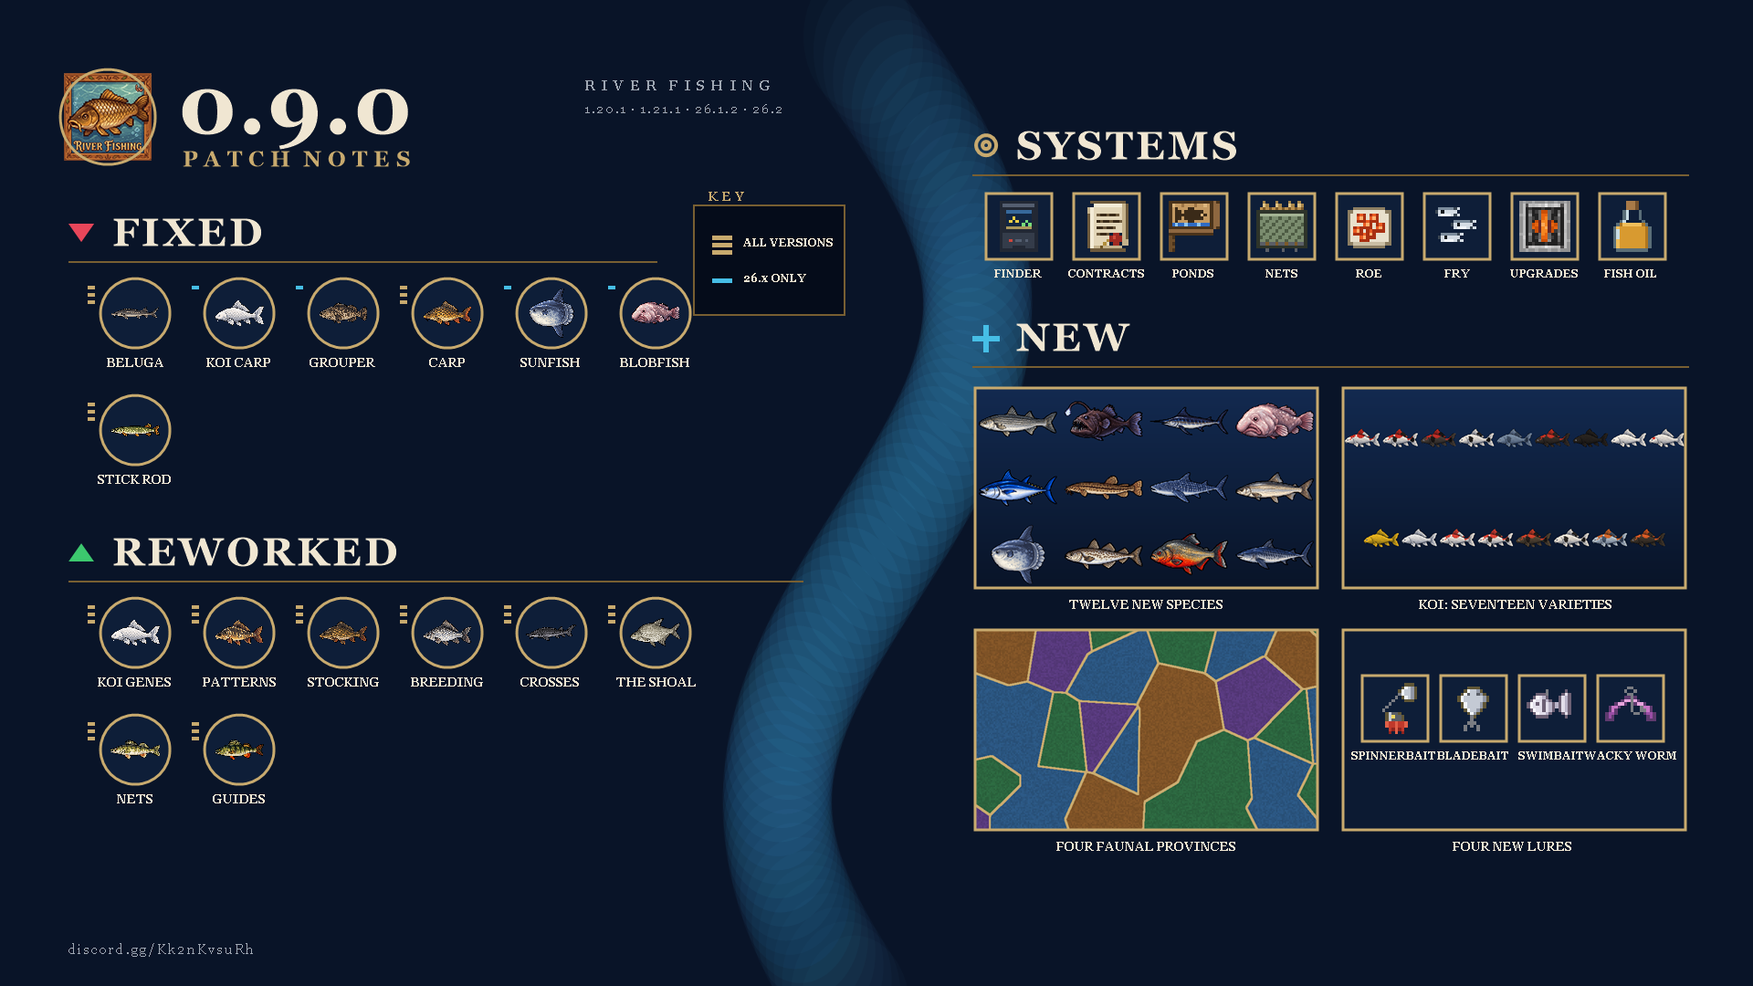
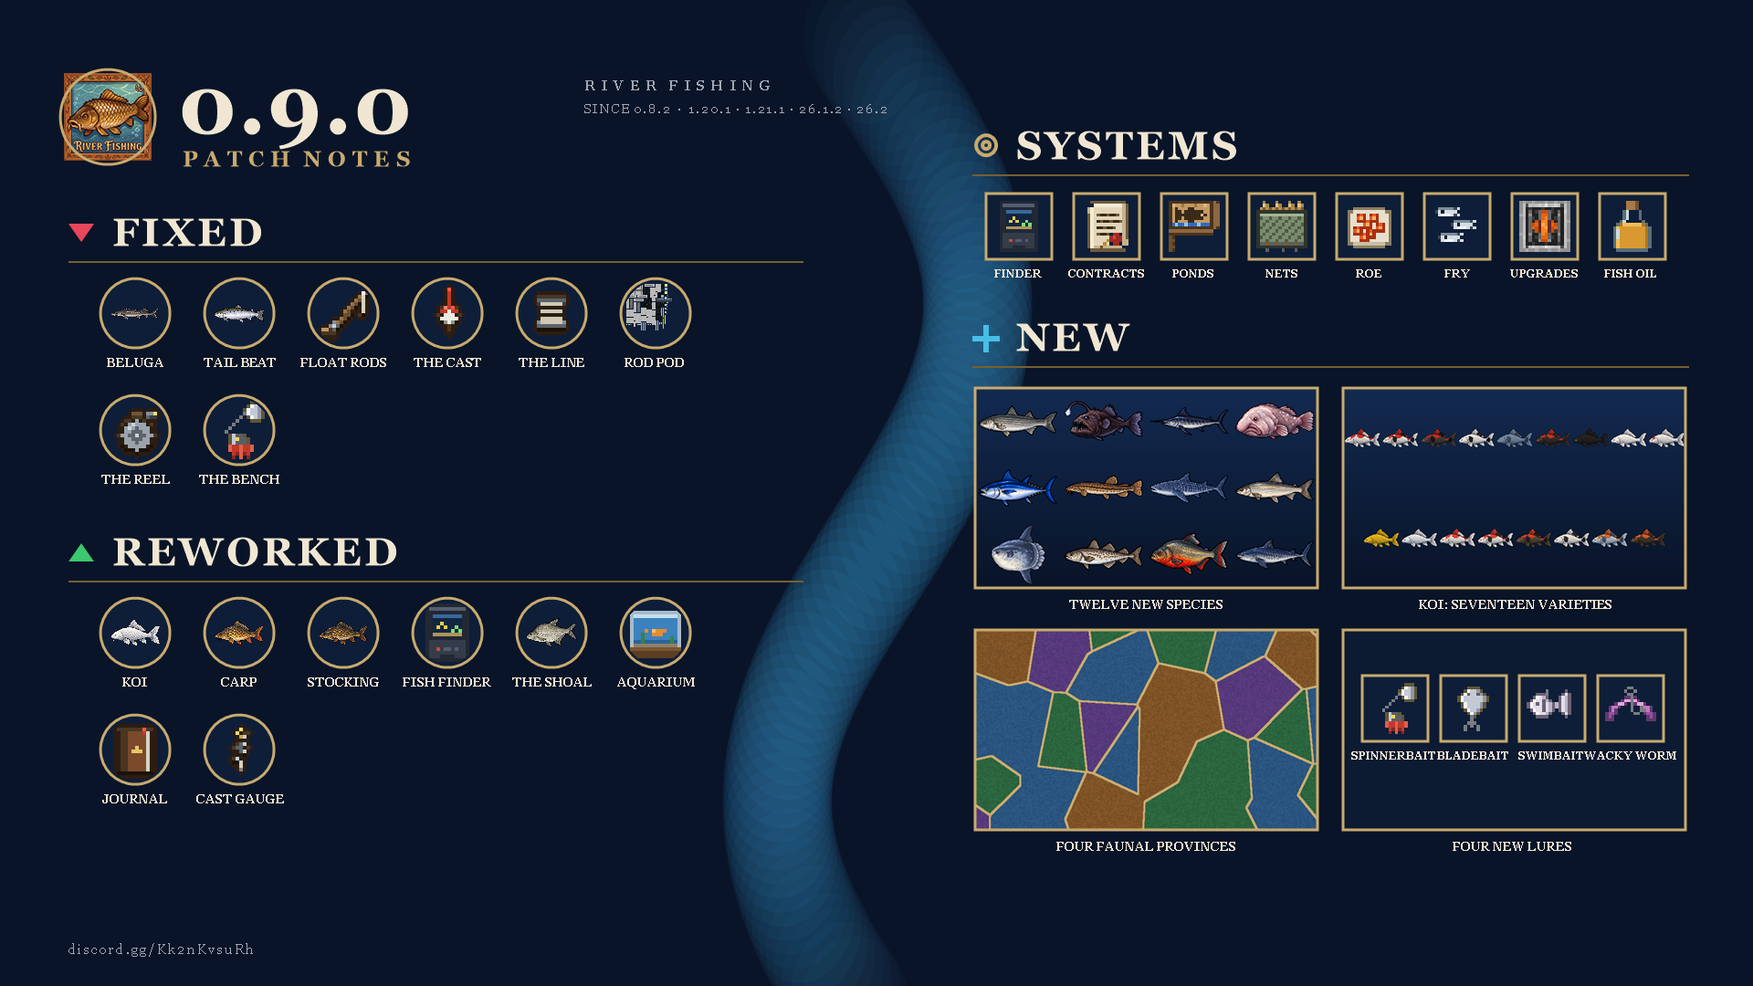
docs(0.9.0): the notes are measured against 0.8.2 — bugs born and fixed inside the cycle are left out, and the card follows
Eight fixes survive: the beluga, the tail beat, the float-rod crash, the cave lake, the line tip, the rod pod, the crank, the bench dye. The koi, fry, mask, flat-pose, aquarium-flicker and ledger fixes were all against 0.9.0's own features and are gone from the list; the before ⇒ after arrows that compared two in-cycle states are flattened.

diff --git a/docs/patchnotes/0.9.0.md b/docs/patchnotes/0.9.0.md
@@ -2,7 +2,7 @@
 
 **Minecraft 1.20.1** (Fabric & Forge) · **1.21.1** (Fabric & NeoForge) · **26.1.2** (Fabric & NeoForge) · **26.2** (Fabric & NeoForge)
 
-Hey anglers. This is the breeding patch — the one where a pond stops being a place you fish and becomes a place you *keep*. Every fish now carries a card with its genes on it, a tank breeds them the way Mendel said, koi come in seventeen varieties you build rather than find, and the world finally has geography: four faunal provinces cut by the seed, so a taimen and a peacock bass no longer share a river because the temperature happened to match. Underneath that: contracts from the fisherman's board, a fish finder that is an instrument, twelve new species, four lures, and the longest bugfix list this mod has shipped — including the beluga, which can be landed again.
+Everything below is measured against **0.8.2**, the last release. Hey anglers. This is the breeding patch — the one where a pond stops being a place you fish and becomes a place you *keep*. Every fish now carries a card with its genes on it, a tank breeds them the way Mendel said, koi come in seventeen varieties you build rather than find, and the world finally has geography: four faunal provinces cut by the seed, so a taimen and a peacock bass no longer share a river because the temperature happened to match. Underneath that: contracts from the fisherman's board, a fish finder that is an instrument, twelve new species, four lures — and the beluga, which can be landed again.
 
 It is a big one. Skim the highlights, then read the section you fish in.
 
@@ -11,7 +11,7 @@ It is a big one. Skim the highlights, then read the section you fish in.
 ## Patch Highlights
 
 - **Every fish carries its card** — genes, nature, where and how it was caught. Contracts read it. The tank breeds from it.
-- **Breeding** — roe, fry, a live aquarium, spawning windows for all 107 species, Mendelian inheritance.
+- **Breeding** — roe, fry, a live aquarium, spawning windows for all 105 species, Mendelian inheritance.
 - **Koi are bred, not found** — one fish, five colour loci, seventeen varieties; kohaku breeds true, tancho comes out of a tancho line.
 - **The pattern index** — every carp and koi wears a marking family, and twelve of a thousand are gems.
 - **Geography** — four faunal provinces per world; a species is *absent* outside its own, not rarer.
@@ -27,7 +27,7 @@ It is a big one. Skim the highlights, then read the section you fish in.
 
 *The top and the bottom of the ladder both needed company: the beluga stood alone at level 12, and the small end had nothing that lives in a loach's kind of water.*
 
-- **Added:** mullet, anglerfish, black marlin, blobfish, bluefin tuna, loach, whale shark, nelma, ocean sunfish, pollock, red piranha, tiger shark — each with its own art, water and way of being caught.
+- **Added:** mullet, anglerfish, black marlin, blobfish, bluefin tuna, loach, whale shark, nelma, ocean sunfish, pollock, red piranha, tiger shark — each with its own art, water and way of being caught. **93 ⇒ 105 species.**
 - **Level 12:** beluga ⇒ beluga and whale shark.
 - **Artwork on disk:** 7.8 MB ⇒ 4.0 MB (the 93 existing sprites compressed, nothing redrawn).
 
@@ -37,14 +37,13 @@ It is a big one. Skim the highlights, then read the section you fish in.
 
 - **Loci:** W white ground, R red, B black, G lustre, **T crown** — a pair of alleles each, dominant written first.
 - **Varieties:** 5 ⇒ 17. Nine come out of the water; eight — tancho, yamabuki, platinum ogon, sakura ogon, yamatonishiki, kin showa, kin hi utsuri, shiro muji — are bred and nothing else.
-- **Tancho:** *a kohaku pure at white and red* ⇒ **the recessive `tt` on a kohaku.** A kohaku line carries `TT` and cannot throw one; a tancho line breeds it true; tancho × kohaku hides it for a generation and the F2 shows one in four.
-- **Kohaku × kohaku:** *50% kohaku, 19% platinum, 19% hi utsuri, 6% tancho* ⇒ **kohaku, the odd shiro muji where a carrier drops the red, never a dark fish, never a metallic one.**
+- **Tancho** is the recessive `tt` on a kohaku. A kohaku line carries `TT` and cannot throw one; a tancho line breeds it true; tancho × kohaku hides it for a generation and the F2 shows one in four.
+- **Kohaku × kohaku** gives kohaku — the odd shiro muji where a carrier drops the red, never a dark fish, never a metallic one.
 - **A wild koi** is pure at its ground and its lustre and a mongrel at the red and the black — the card shows the carriers (`Rr`, `Bb`), which is where a sanke line drops a bekko.
-- **Names:** the matt white koi *Platinum* ⇒ **Shiro Muji**; the metallic white *Ogon* ⇒ **Platinum Ogon** (names only — every id on every card stays what it was).
 - **Yamabuki**, the gold koi, is a karasu with the lustre on. The lustre reaches a pond only on a wild kujaku or gin bekko — one koi in thirteen.
 - **Prices:** tancho ×4 a plain fish, yamabuki ×3.5, by variety at every counter.
 - **One drawing paints all seventeen:** four tint layers cut from one sprite, plus an eye layer that takes no colour, so a white koi keeps its eye.
-- **Old worlds:** a card written with four koi pairs reads its crown from the old rule — a bred tancho is still a tancho.
+- **Old worlds:** the five koi items you already have keep their items, prices and journal pages; a caught koi is drawn as its variety from the first tick it is carried.
 
 | Variety | Genotype | Where from |
 |---|---|---|
@@ -68,25 +67,25 @@ It is a big one. Skim the highlights, then read the section you fish in.
 
 ### Carp wear their genotype
 
-*Scale cover in carp is a real two-locus system, and it is one here.*
+*Scale cover in carp is a real two-locus system, and it is one here. Three carp items ⇒ one carp with a genotype (the sazan keeps its own id: its own price, its own fight).*
 
 - **Loci:** K scaled / k mirror, N nude (lethal doubled) / n normal.
 - **Varieties:** scaled `K_ nn`, mirror `kk nn`, linear `K_ Nn`, leather `kk Nn`. Mirror breeds true; leather never can — `NN` is a dead egg, so a leather pair loses a quarter of its clutch, which is exactly why a leather carp is worth more.
-- **Drawing:** a carp is drawn as the variety its genotype gave it. Nothing you already caught changes item, price or journal page.
+- **Drawing:** a carp is drawn as the variety its genotype gave it; the linear carp has its own sprite. Nothing you already caught changes item, price or journal page.
 
 ### The pattern index
 
-*Two kohaku of the same weight should not be the same fish. The index is one number, 0–999, on every carp and koi — and, as of this patch, it actually draws something.*
+*Two kohaku of the same weight should not be the same fish. The index is one number, 0–999, on every carp and koi, and it draws.*
 
 - **Families:** twelve, of uneven width — plain, drift, crown, banded, speckled, mask, marbled, veined, dappled, ghost, ember, aurora.
-- **On the fish:** *a hue turn of 3–18°* ⇒ **a marking in the family's shape** — banded is banded, mask is a dark head — cut to each sprite, carrying the fish's own scales and shading underneath, moved a notch by the index so neighbours are cousins rather than twins.
+- **On the fish:** a marking in the family's shape — banded is banded, mask is a dark head — cut to each sprite, carrying the fish's own scales and shading underneath, moved a notch by the index so neighbours are cousins rather than twins. The koi's mask, bands and aurora are hand-drawn; the carps wear the same drawing re-projected onto their own bodies.
 - **Gems:** twelve exact indices — sapphire, gold, emerald, jet, amethyst, pearl, ruby, copper, jade, amber, opal, obsidian. The whole fish one saturated colour; the counter pays ×6. One landed fish in 83 is a gem; a named one is one in a thousand.
 - **Heritable and never exact:** a bred fish takes the mean of its parents plus a drift; a line breeds toward a family.
 - **Data tag** `riverfishing:patterned` — a pack that wants another species collecting patterns adds it there.
 
 ### A sazan and a carp can spawn together
 
-*The tank paired by item id, which put a wall through the middle of one species. A profile now names the ids it will spawn with, and every cross carries a strength you read off the egg count.*
+*A profile names the ids it will spawn with, and every cross carries a strength you read off the egg count.*
 
 - **Pools:** carp + sazan + koi (1.0); the two crucians (1.0); beluga + sterlet + sturgeon (0.8 — bester has been farmed on that fact since the fifties); salmon + trout + char (0.5); zander + volga zander (0.35); whitefish + nelma (0.3); the four breams (0.2, and 0.9 for bream × white bream); roach + rudd (0.35).
 - **Fry** take the mother's species and a genome crossed from both parents — breeding a carp out of a wild sazan is a thing you can do.
@@ -105,7 +104,7 @@ It is a big one. Skim the highlights, then read the section you fish in.
 *Minecraft has weather, not geography: the same swamp repeats to the world border, so a fish gated on biomes lived everywhere its climate occurred. The world is now cut into four faunal provinces by the seed.*
 
 - **Provinces:** palearctic, nearctic, neotropic, indomalaya — organic regions about 3,000 blocks across, fixed forever.
-- **A species outside its province:** *rarer* ⇒ **absent.** No factor, no half rate.
+- **A species outside its province is absent.** No factor, no half rate.
 - **The sea is undivided**, and so are the fish people carried everywhere: 37 species name no province.
 - **Species per province:** 59 palearctic, 24 nearctic, 18 neotropic, 15 indomalaya.
 - **The sounder** names your province on the bar and the water card; the chart paints the regions once ~1,000 blocks fit across its face.
@@ -117,16 +116,16 @@ It is a big one. Skim the highlights, then read the section you fish in.
 
 - **To settle a species:** one mature ♀ and one mature ♂ (the card says which), or thirty fry — living through one whole spawning window in water that suits them at least halfway.
 - **The release message** is a checklist: sexes, fit, days to settle. Hostile water refuses outright; the wrong continent says so.
-- **Until settled** the transplant is temporarily catchable off what you banked, and disperses if the brood never completes.
-- **What comes out of a stocked water:** *a fish rolled from the wild table* ⇒ **a founder** — one of the fish you put in — until the brood has spawned, and their **cross** after it. 250 kohaku fry are 250 kohaku, not their F1 on day one.
+- **Until settled** the transplant is temporarily catchable off what you banked, counted by heads, and disperses if the brood never completes.
+- **What comes out of a stocked water:** a founder — one of the fish you put in — until the brood has spawned, and their **cross** after it. 250 kohaku fry are 250 kohaku.
 - **Fry are not fish until they are:** a water holding only fry gives a net nothing for twelve days; the fish they become are counted the day they mature.
-- **An unsettled brood is counted by its book:** heads, not a weight bank that eleven catches emptied while the sounder still listed a hundred. The last fish out empties both.
+- **The release reads the same water the finder priced** — the best column within three blocks, not the one your feet are in — so "it will thrive here" and "it will not survive here" stop being two answers about one pond.
 
 ### Private ponds
 
 - **A sign** within three blocks of water claims that body, up to 600 blocks — a dug pit, a village pond, never a river.
 - **In a claimed pond:** no wild fish move in; depth, width, biome and province gates step back (a carp lives in a dug pit); your own net is legal; the wait between hauls is a third.
-- **The sign** is a board on a post now, faces whoever plants it, and its hitbox is the sign.
+- **The sign** is a board on a post, faces whoever plants it, and its hitbox is the sign.
 
 ### The pond is a farm
 
@@ -138,7 +137,7 @@ It is a big one. Skim the highlights, then read the section you fish in.
 
 ### Water upgrades
 
-*Five blocks for a pond of your own, counted within 24 blocks of the water — and drawn like vanilla now.*
+*Five blocks for a pond of your own, counted within 24 blocks of the water.*
 
 | Block | What it does | Recipe core |
 |---|---|---|
@@ -155,8 +154,7 @@ It is a big one. Skim the highlights, then read the section you fish in.
 - **Seine:** 1–3 fish a minute, 64 hauls. **Cast net:** at most one every 15 s, 32 hauls.
 - **A netted fish carries a card** that says NETTED — and POACHED when the water was not yours. It never loses that.
 - **Poaching:** every fisherman within earshot saw it: **reputation −5 per haul**, and the water empties **twice** as fast.
-- **The record:** *three hauls and no contracts until one release per offence* ⇒ **reputation is a signed number.** Under zero the trusted shelf shuts; at **−15** the board is blank. Restitution is **5 kg of mature fish per point**, released into *wild* water.
-- **A poached fish put back buys no pardon** — the haul that cost five points cannot pay them back.
+- **Reputation is a signed number.** Under zero the trusted shelf shuts; at **−15** the board is blank. Restitution is **5 kg of mature fish per point**, released into *wild* water — and a poached fish put back buys no pardon.
 - **A net pays the ledger like a rod:** a settled water from its head count, an unsettled brood from its book.
 
 ### The electrofisher
@@ -182,8 +180,6 @@ It is a big one. Skim the highlights, then read the section you fish in.
 
 ### The tank shows its water and its modules
 
-*A tank with an aerator in it looked exactly like a tank without one, and the water was one blue texture at 100% and at 0%.*
-
 - **Water colour** reads the tank: clear blue at 100 ⇒ green murk at 50 (the line under which nothing spawns) ⇒ brown at 0, and less see-through as it fouls.
 - **Modules** are drawn as their blocks in the back corners of the gravel — left slot left, right slot right.
 - **Six fish swim as six fish**, in three depth lanes, big enough to see; a flatfish works the floor.
@@ -204,13 +200,13 @@ It is a big one. Skim the highlights, then read the section you fish in.
 ### Fish meal, fish oil, and a potion
 
 - **Fish meal:** three small fish (or a bucket of fry) grind into bone meal for the fields and protein for the groundbait.
-- **Oily fish:** herring, mackerel, salmon, pink salmon, sabrefish, eel, bluefish, bluefin tuna, pollock render down in a furnace or on a campfire — and now in a **brewing stand**: an awkward potion under any oily fish is a **Potion of Fish Oil** on every loader; an empty bottle under one is the oil item on NeoForge and Forge (Fabric's API type-checks both ends as potions, so there the bottle stays a furnace job).
+- **Oily fish:** herring, mackerel, salmon, pink salmon, sabrefish, eel, bluefish, bluefin tuna, pollock render down in a furnace or on a campfire — and in a **brewing stand**: an awkward potion under any oily fish is a **Potion of Fish Oil** on every loader; an empty bottle under one is the oil item on NeoForge and Forge (Fabric's API type-checks both ends as potions, so there the bottle stays a furnace job).
 - **Potion of Fish Oil:** dolphin's grace + water breathing 1:30, regeneration 0:45, resistance 1:30, and it clears mining fatigue outright. Glowstone: second level, shorter. Redstone: 4:00. Gunpowder: throwable.
 
 ### The gauges
 
 - **The cast gauge reads in metres** — the same function the server throws with — on an oak-and-brass sheet, the unreachable band of an under-loaded rig hatched red.
-- **The hookset gauge** is read on the same frame now: *four flat grey rectangles* ⇒ the cast gauge's brass, green and orange zones, a needle.
+- **The hookset gauge** is read on the same frame: *four flat grey rectangles* ⇒ the cast gauge's brass, green and orange zones, a needle.
 
 ### Seasons without Serene Seasons
 
@@ -240,11 +236,13 @@ It is a big one. Skim the highlights, then read the section you fish in.
 
 ### The fish finder is an instrument
 
+*Six lines of chat ⇒ a screen, a strip and a chart.*
+
 - **Right-click — the section:** the bed along your aim, metre by metre, coloured by what it is made of, the fish standing where their depth is met; click a species for what the mod knows about it here, a blocked one for *why it will not bite*.
 - **Crouch + right-click — sounding:** a marker cast five blocks wide finds holes and drop-offs. Fish hold on them; casting on one is a real bite bonus.
 - **Hold it — the strip:** a sounder trace scrolls on the HUD; under it a needle to the nearest mark, or the one you picked on the chart.
-- **The chart:** everything sounded, pan and zoom, *two pixels a block* ⇒ **sixty-four blocks a pixel**, 27,000 blocks across the face, provinces painted under the water.
-- **The chart belongs to the sounder:** *one pile per world on your own disk* ⇒ **filed under the finder's own id, in the world save.** Buy a second finder and it starts blank; sell a surveyed one and you are selling the survey. The first sounder used in an existing world inherits the pile that was there.
+- **The chart:** everything you have ever sounded, pan and zoom, out to sixty-four blocks a pixel — 27,000 blocks across the face — with the provinces painted under the water.
+- **The chart belongs to the sounder:** filed under the finder's own id, in the world save. Buy a second finder and it starts blank; sell a surveyed one and you are selling the survey.
 - **The sample view:** clarity, climate, the season's third, oxygen, cover, the ecosystem, the farm ledger, the province.
 - **The bottom moves the bite:** cyprinids like mud and clay, predators rock and gravel, salmonids gravel — a nudge, never a gate.
 
@@ -252,7 +250,7 @@ It is a big one. Skim the highlights, then read the section you fish in.
 
 - **Recipes as a bench:** *a list of ingredient names* ⇒ **the crafting grid**, slots where the recipe puts them, tag ingredients cycling.
 - **A bait's catch list** is the fish themselves.
-- **Five new guide pages** under a new shelf group, *Fish farming*: stocking, breeding, genes, upgrades — and *Half a planet* under *Reading the water*. Every existing page was read against the code and corrected where it had drifted (the stocking odds that no longer exist, a nod that never did, a taper rule that was backwards). The author then went over all thirty in three languages.
+- **Five new guide pages** under a new shelf group, *Fish farming*: stocking, breeding, genes, upgrades — and *Half a planet* under *Reading the water*. Every existing page was read against the code and corrected where it had drifted (the stocking odds that no longer exist, a nod that never did, a taper rule that was backwards), then gone over in all three languages.
 - **Section headings** on the longest pages, the same in all three languages.
 
 ### The fish in the water
@@ -266,33 +264,24 @@ It is a big one. Skim the highlights, then read the section you fish in.
 ## Compatibility & Tools
 
 - **Terralith and Oh The Biomes You'll Go:** two hundred modded biomes have their water named — salt, fresh, swamp, and which are cherry groves by another name (a sakura grove holds koi and gets its own pond). Neither mod is required.
-- **26.2:** the cherry pond loads — vanilla's lake feature grew three required predicates, and the mod's JSON carries them for every version.
+- **26.2** joins the supported list: four Minecraft versions, eight jars.
 - **`/rffish give <species> [variety|random|all] [count] [pattern]`** (op) — a fish made the way the water makes one, card and all; `all` on a koi is one of each of the seventeen.
+- **Reading a stack's data** no longer deep-copies it every time — the card is read a lot.
 
 ---
 
 ## Bugfixes
 
+*Only what was broken in 0.8.2. Bugs that appeared and were fixed while 0.9.0 was being built are not listed.*
+
 - **The beluga can be landed.** A head-shake was being billed as a whole dive — forty a fight, thirteen bars of drain against a bar that holds one. Charged for dives only, and a check now plays every species through its own fight.
-- **The fish stopped convulsing.** The tail phase is integrated, never multiplied — at a hundred thousand ticks it was moving 1,700 radians a frame.
-- **The stocked pond gives back what was put in it** — founders until they spawn, their cross after, not an equilibrium on day one.
-- **Netting a matured brood** now takes it off the book; the sounder no longer lists fish that are gone, and a leftover weight bank no longer keeps a species biting with nobody left.
-- **Koi drew white on 26.x** for any stack that did not come from the rod, the net or the trap — a `/give`, a datapack, an old world. A fish tops itself up the first tick it is carried.
-- **Fry drew as a bare species** — white koi in the hand, a kohaku for every koi in the tank.
-- **Pattern markings** were a flat patch over the fish, then a grey one; they carry the sprite's colour and shading now.
-- **The goliath grouper, the blobfish and the sunfish lay on the bank like a halibut** on 26.x — their models were templated off a flatfish's.
-- **The aquarium flickered** — the water box was drawn twice.
-- **Four guide pages rendered as "Format error:"** in all three languages — a bare `%` in a string the journal formats.
-- **The crash on casting a wooden rod** (NeoForge 1.21.1): the line renderer drew the bobber into a buffer already closed under it. Fixed at the root; the rod pod had the same shape waiting.
+- **The fish stopped convulsing when they sped up.** The tail phase is integrated, never multiplied — at a hundred thousand ticks it was moving 1,700 radians a frame, worse the older the world.
+- **The crash on casting a float rod** (NeoForge 1.21.1, reported three times as "the stick rod"): the line renderer drew the bobber into a buffer already closed under it. Fixed at the root; the rod pod had the same shape waiting.
 - **A cast could land in a lake under the ground.** The scan stops at the first block that would stop the tackle falling; ice is still fallen through. Water under a roof is cast into from under the roof.
 - **The start of the line jumped for a frame** with the rod in hand — tip freshness was measured in ticks and is measured on the wall clock.
-- **26.x refused to start** — six new blocks registered without their registry id.
 - **The rod pod hands over the right rod:** a false alarm no longer outranks the fish on the next rod.
-- **A crank is a crank** — reeling no longer swings the rod like an axe.
-- **A contract asked for a peacock bass from 1,753 kilograms.** It does not.
-- **The bench dyes the lure again**; the standing on the board is a signed number.
-- **A fish in the water stays in the water.**
-- **Reading a stack's data** no longer deep-copies it every time.
+- **A crank is a crank** — reeling no longer swings the rod like an axe (two causes, one per side, and they stacked).
+- **The bench dyes the lure again.** A dye was consumed and never applied since the hook picker moved the slots.
 
 ---
 
